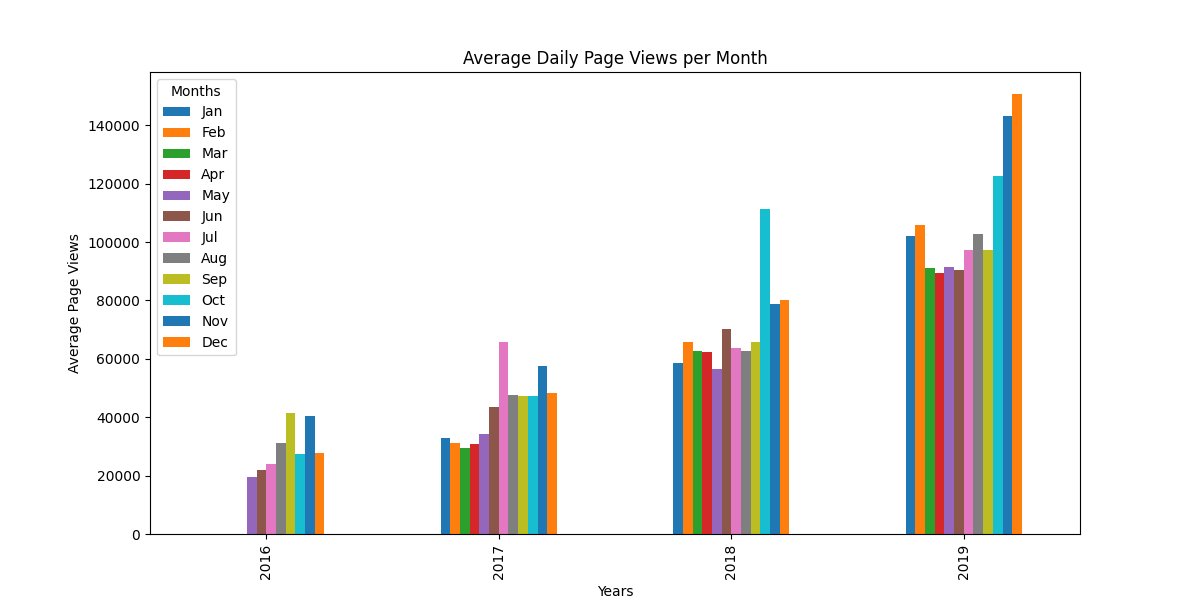
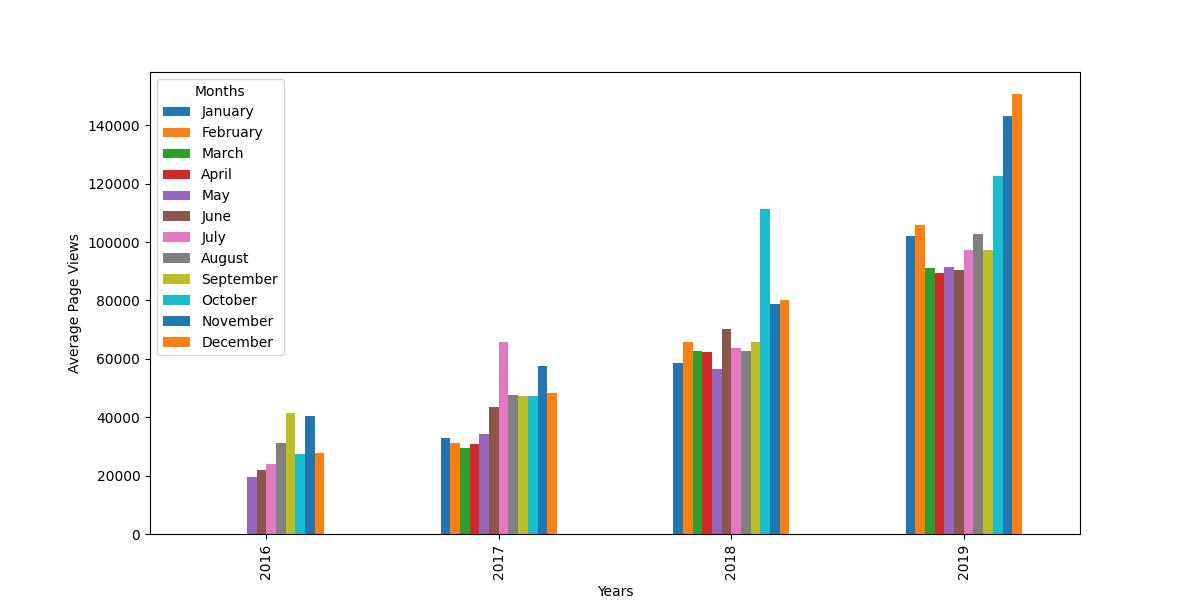
fix:no box plot

Changed region(s): [[0.37, 0.09, 0.6475, 0.12], [0.185, 0.42, 0.2467, 0.6], [0.1542, 0.12, 0.2158, 0.27]]

diff --git a/time_series_visualizer.py b/time_series_visualizer.py
@@ -1,85 +1,54 @@
-import pandas as pd
 import matplotlib.pyplot as plt
+import pandas as pd
 import seaborn as sns
+from pandas.plotting import register_matplotlib_converters
+register_matplotlib_converters()
 
-def load_and_clean_data():
-    # 讀取 CSV 檔案並將日期欄設為索引
-    df = pd.read_csv("fcc-forum-pageviews.csv", parse_dates=["date"], index_col="date")
-    
-    # 移除數據中的極端值 (去掉最上層 2.5% 和最下層 2.5%)
-    lower_bound = df["value"].quantile(0.025)
-    upper_bound = df["value"].quantile(0.975)
-    df = df[(df["value"] >= lower_bound) & (df["value"] <= upper_bound)]
-    
-    return df
+# Import data (Make sure to parse dates. Consider setting index column to 'date'.)
+df = pd.read_csv("fcc-forum-pageviews.csv", index_col="date", parse_dates=True)
+
+# Clean data
+df = df[(df["value"] >= df["value"].quantile(0.025)) & (df["value"] <= df["value"].quantile(0.975))]
 
 def draw_line_plot():
-    # 載入清理後的數據
-    df = load_and_clean_data()
-    
-    # 建立圖表
-    fig, ax = plt.subplots(figsize=(12, 6))
+    fig, ax = plt.subplots(figsize=(12, 5))
     ax.plot(df.index, df["value"], color='red', linewidth=1)
-    
-    # 設定標題與軸標籤
     ax.set_title("Daily freeCodeCamp Forum Page Views 5/2016-12/2019")
     ax.set_xlabel("Date")
     ax.set_ylabel("Page Views")
-    
-    # 儲存圖表並回傳
     fig.savefig('line_plot.png')
     return fig
 
 def draw_bar_plot():
-    # 載入清理後的數據
-    df = load_and_clean_data()
+    df_bar = df.copy()
+    df_bar['year'] = df_bar.index.year
+    df_bar['month'] = df_bar.index.month
+    df_bar = df_bar.groupby(['year', 'month'])["value"].mean().unstack()
     
-    # 新增年份與月份欄位
-    df["year"] = df.index.year
-    df["month"] = df.index.month
-    
-    # 計算每個月份的平均值，並將結果轉換為表格格式
-    df_bar = df.groupby(["year", "month"])["value"].mean().unstack()
-    
-    # 繪製長條圖
     fig = df_bar.plot(kind='bar', figsize=(12, 6)).figure
     plt.xlabel("Years")
     plt.ylabel("Average Page Views")
-    
-    # 設定圖例 (月份)
-    plt.legend(title="Months", labels=["Jan", "Feb", "Mar", "Apr", "May", "Jun", "Jul", "Aug", "Sep", "Oct", "Nov", "Dec"])
-    plt.title("Average Daily Page Views per Month")
-    
-    # 儲存圖表並回傳
+    plt.legend(title="Months", labels=["January", "February", "March", "April", "May", "June", "July", "August", "September", "October", "November", "December"])
     fig.savefig('bar_plot.png')
     return fig
 
 def draw_box_plot():
-    # 載入清理後的數據
-    df = load_and_clean_data()
+    df_box = df.copy()
+    df_box.reset_index(inplace=True)
+    df_box['year'] = df_box['date'].dt.year
+    df_box['month'] = df_box['date'].dt.strftime('%b')
     
-    # 新增年份與月份名稱欄位
-    df["year"] = df.index.year
-    df["month"] = df.index.strftime('%b')
-    
-    # 設定月份的顯示順序
-    month_order = ["Jan", "Feb", "Mar", "Apr", "May", "Jun", "Jul", "Aug", "Sep", "Oct", "Nov", "Dec"]
-    
-    # 建立圖表與子圖
     fig, axes = plt.subplots(1, 2, figsize=(15, 6))
-    
-    # 年度趨勢箱型圖
-    sns.boxplot(x="year", y="value", data=df, ax=axes[0])
+    sns.boxplot(x='year', y='value', data=df_box, ax=axes[0])
     axes[0].set_title("Year-wise Box Plot (Trend)")
     axes[0].set_xlabel("Year")
     axes[0].set_ylabel("Page Views")
     
-    # 月份趨勢箱型圖 (季節性)
-    sns.boxplot(x="month", y="value", data=df, order=month_order, ax=axes[1])
+    month_order = ["Jan", "Feb", "Mar", "Apr", "May", "Jun", "Jul", "Aug", "Sep", "Oct", "Nov", "Dec"]
+    sns.boxplot(x='month', y='value', data=df_box, order=month_order, ax=axes[1])
     axes[1].set_title("Month-wise Box Plot (Seasonality)")
     axes[1].set_xlabel("Month")
     axes[1].set_ylabel("Page Views")
     
-    # 儲存圖表並回傳
     fig.savefig('box_plot.png')
     return fig
